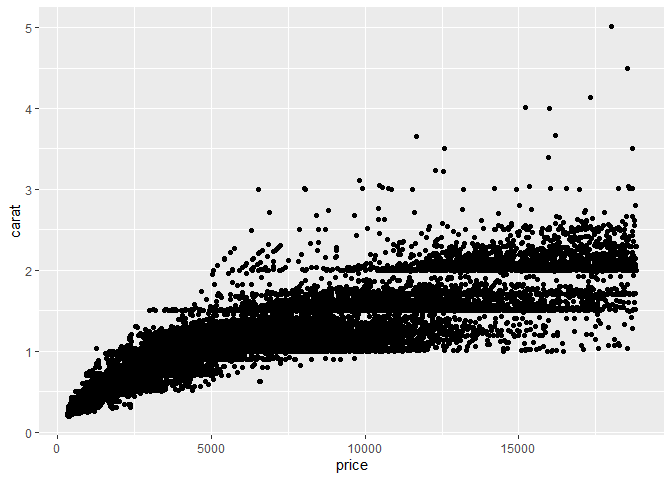
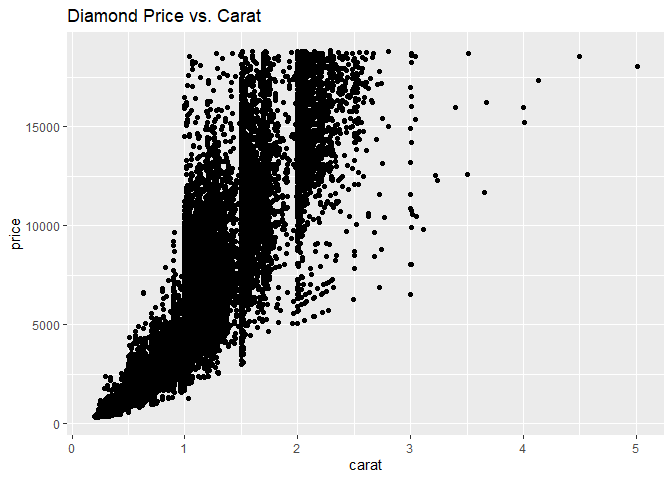
finish assignment 0

diff --git a/data-science-curriculum-build/data-science-curriculum-build/challenges/c00-diamonds-assignment.md b/data-science-curriculum-build/data-science-curriculum-build/challenges/c00-diamonds-assignment.md
@@ -98,14 +98,17 @@ document your observations.
 ``` r
 ## TASK: Plot `price` vs `carat` below
 ## Your code here!
-ggplot(            # 1. Starting a ggplot
-  data = diamonds  # 2. Dataset to visualize
-) +                # 3. Adding elements to the plot
-  geom_point(      # 4. Geometry
-    mapping = aes( # 5. `Aes`thetic mapping
-      x = price,   # 5.1. Mapping the `x` variable
-      y = carat    # 5.2. Mapping the `y` variable
+ggplot(
+  data = diamonds
+) +
+  geom_point(
+    mapping = aes(
+      x = carat,
+      y = price,
     )
+  ) +
+  labs(
+    title = "Diamond Price vs. Carat"
   )
 ```
 
@@ -113,22 +116,29 @@ ggplot(            # 1. Starting a ggplot
 
 **Observations**:
 
-- (Write your observations here!)
+- There seem to be large increases in price when the tenths digit of the
+  carat value increases to 0 or 5
+- There seems to be a strong positive correlation between the price of
+  the diamond and the carat
+- If a diamond is small enough, it costs less than 1000
 
 ### **q2** Create a visualization showing variables `carat`, `price`, and `cut` simultaneously. Experiment with which variable you assign to which aesthetic (`x`, `y`, etc.) to find an effective visual.
 
 ``` r
 ## TASK: Plot `price`, `carat`, and `cut` below
 ## Your code here!
-ggplot(            # 1. Starting a ggplot
-  data = diamonds  # 2. Dataset to visualize
-) +                # 3. Adding elements to the plot
-  geom_point(      # 4. Geometry
-    mapping = aes( # 5. `Aes`thetic mapping
-      x = price,   # 5.1. Mapping the `x` variable
-      y = carat,    # 5.2. Mapping the `y` variable
+ggplot(
+  data = diamonds
+) +
+  geom_point(
+    mapping = aes(
+      x = carat,
+      y = price,
       color = cut
     )
+  ) +
+  labs(
+    title = "Diamond Price vs. Carat by Cut"
   )
 ```
 
@@ -136,7 +146,12 @@ ggplot(            # 1. Starting a ggplot
 
 **Observations**:
 
-- (Write your observations here!)
+- It seems a lot easier to visualize dense data when grouping by color
+  than by shape
+- Carat seems to be a larger factor in determining the price of a
+  diamond than cut
+- Ideal cuts seem to fetch slightly higher prices than very good cuts,
+  which in turn get slightly higher prices than fair cuts
 
 # Communication
 
